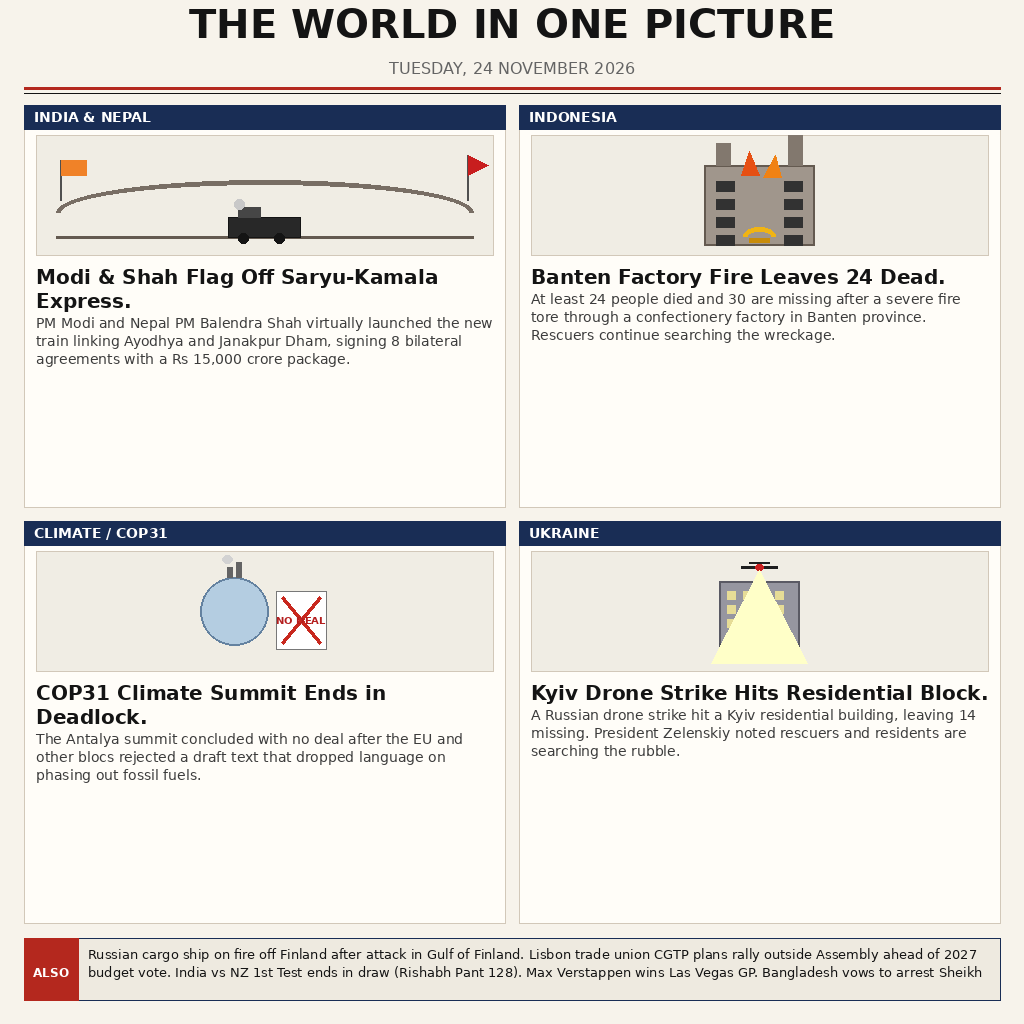
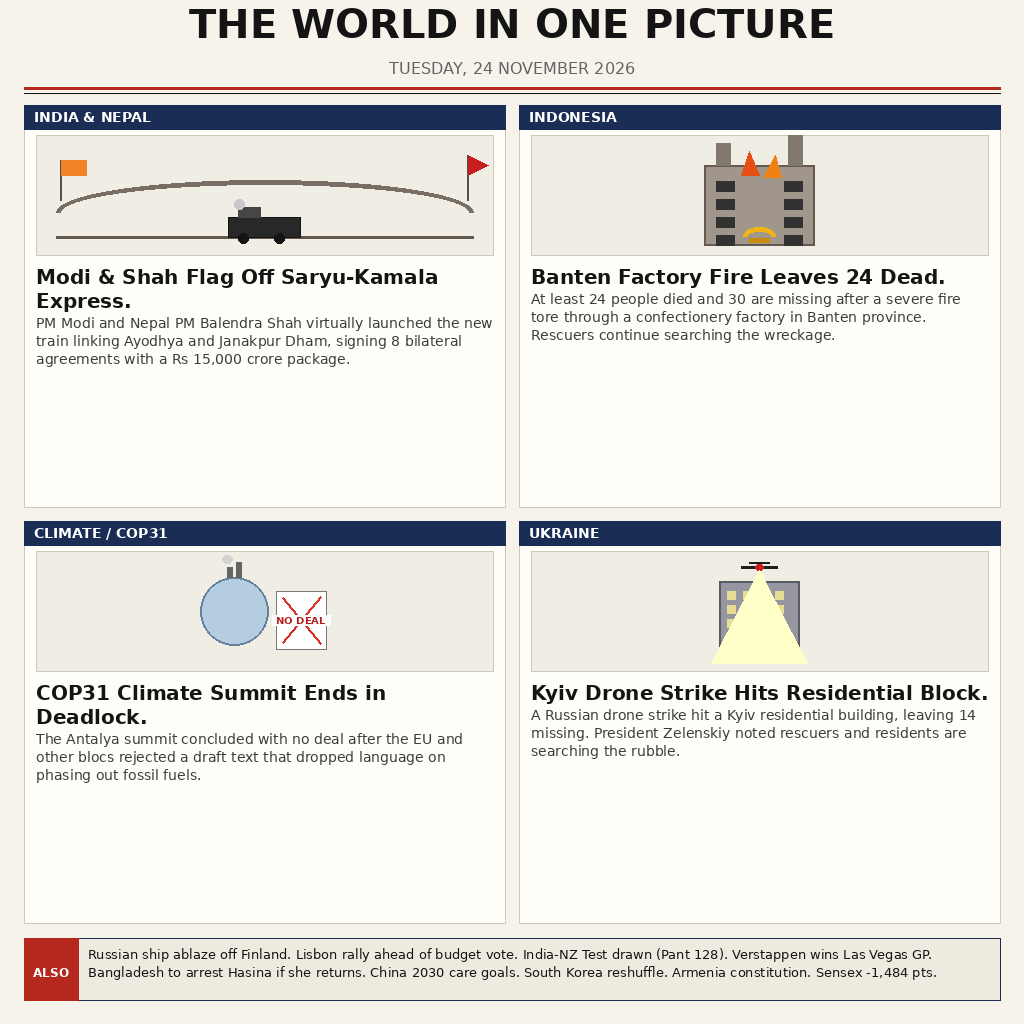
Fix ticker truncation and COP31 NO DEAL label legibility

Changed region(s): [[0.0938, 0.9062, 0.9375, 0.9688], [0.2812, 0.5938, 0.3125, 0.625]]

diff --git a/draw_news.py b/draw_news.py
@@ -113,15 +113,15 @@ def draw_newspaper():
     draw.text((margin + 27, ticker_y + (ticker_height // 2)), "ALSO", fill=c_white, font=font_ticker_title, anchor="mm")
 
     also_text = (
-        "Russian cargo ship on fire off Finland after attack in Gulf of Finland. "
-        "Lisbon trade union CGTP plans rally outside Assembly ahead of 2027 budget vote. "
-        "India vs NZ 1st Test ends in draw (Rishabh Pant 128). "
-        "Max Verstappen wins Las Vegas GP. "
-        "Bangladesh vows to arrest Sheikh Hasina if she returns. "
-        "China announces 2030 elderly care and childcare targets. "
-        "South Korea nominates new Foreign Minister and intelligence chief. "
-        "Armenia proposes new constitution for peace talks. "
-        "India Sensex falls 1,484 points."
+        "Russian ship ablaze off Finland. "
+        "Lisbon rally ahead of budget vote. "
+        "India-NZ Test drawn (Pant 128). "
+        "Verstappen wins Las Vegas GP. "
+        "Bangladesh to arrest Hasina if she returns. "
+        "China 2030 care goals. "
+        "South Korea reshuffle. "
+        "Armenia constitution. "
+        "Sensex -1,484 pts."
     )
 
     ticker_box_w = content_width - 64
@@ -192,9 +192,15 @@ def draw_art(draw, art_type, box):
         dx, dy = cx + 12, cy - 20
         dw, dh = 50, 58
         draw.rectangle([dx, dy, dx + dw, dy + dh], fill=(255, 255, 255), outline=(120, 120, 120), width=1)
-        draw.line([dx + 6, dy + 6, dx + dw - 6, dy + dh - 6], fill=(200, 40, 30), width=3)
-        draw.line([dx + dw - 6, dy + 6, dx + 6, dy + dh - 6], fill=(200, 40, 30), width=3)
-        draw.text((dx + dw // 2, dy + dh // 2), "NO DEAL", fill=(180, 30, 30), font=ImageFont.truetype("/usr/share/fonts/truetype/dejavu/DejaVuSans-Bold.ttf", 10), anchor="mm")
+        draw.line([dx + 6, dy + 6, dx + dw - 6, dy + dh - 6], fill=(220, 50, 40), width=2)
+        draw.line([dx + dw - 6, dy + 6, dx + 6, dy + dh - 6], fill=(220, 50, 40), width=2)
+        # Draw background patch behind text for 100% legibility
+        f_nd = ImageFont.truetype("/usr/share/fonts/truetype/dejavu/DejaVuSans-Bold.ttf", 10)
+        nd_box = draw.textbbox((0, 0), "NO DEAL", font=f_nd)
+        nd_w, nd_h = nd_box[2] - nd_box[0], nd_box[3] - nd_box[1]
+        nd_cx, nd_cy = dx + dw // 2, dy + dh // 2
+        draw.rectangle([nd_cx - nd_w//2 - 4, nd_cy - nd_h//2 - 2, nd_cx + nd_w//2 + 4, nd_cy + nd_h//2 + 2], fill=(255, 255, 255))
+        draw.text((nd_cx, nd_cy), "NO DEAL", fill=(180, 30, 30), font=f_nd, anchor="mm")
 
     elif art_type == "drone":
         ax1, ay1 = cx - 40, y1 + 30
